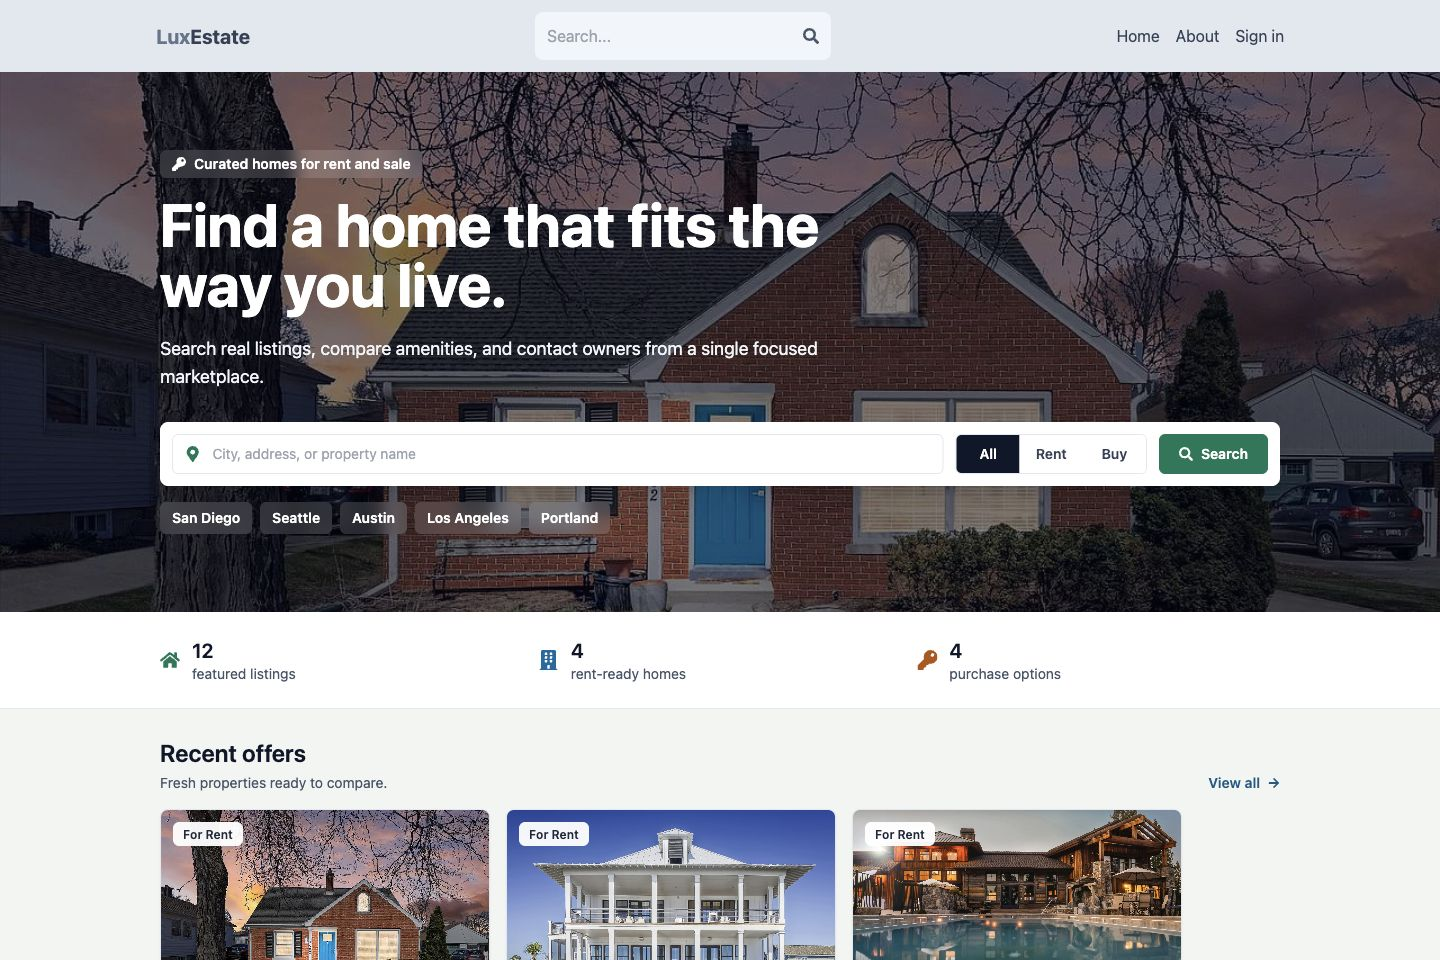
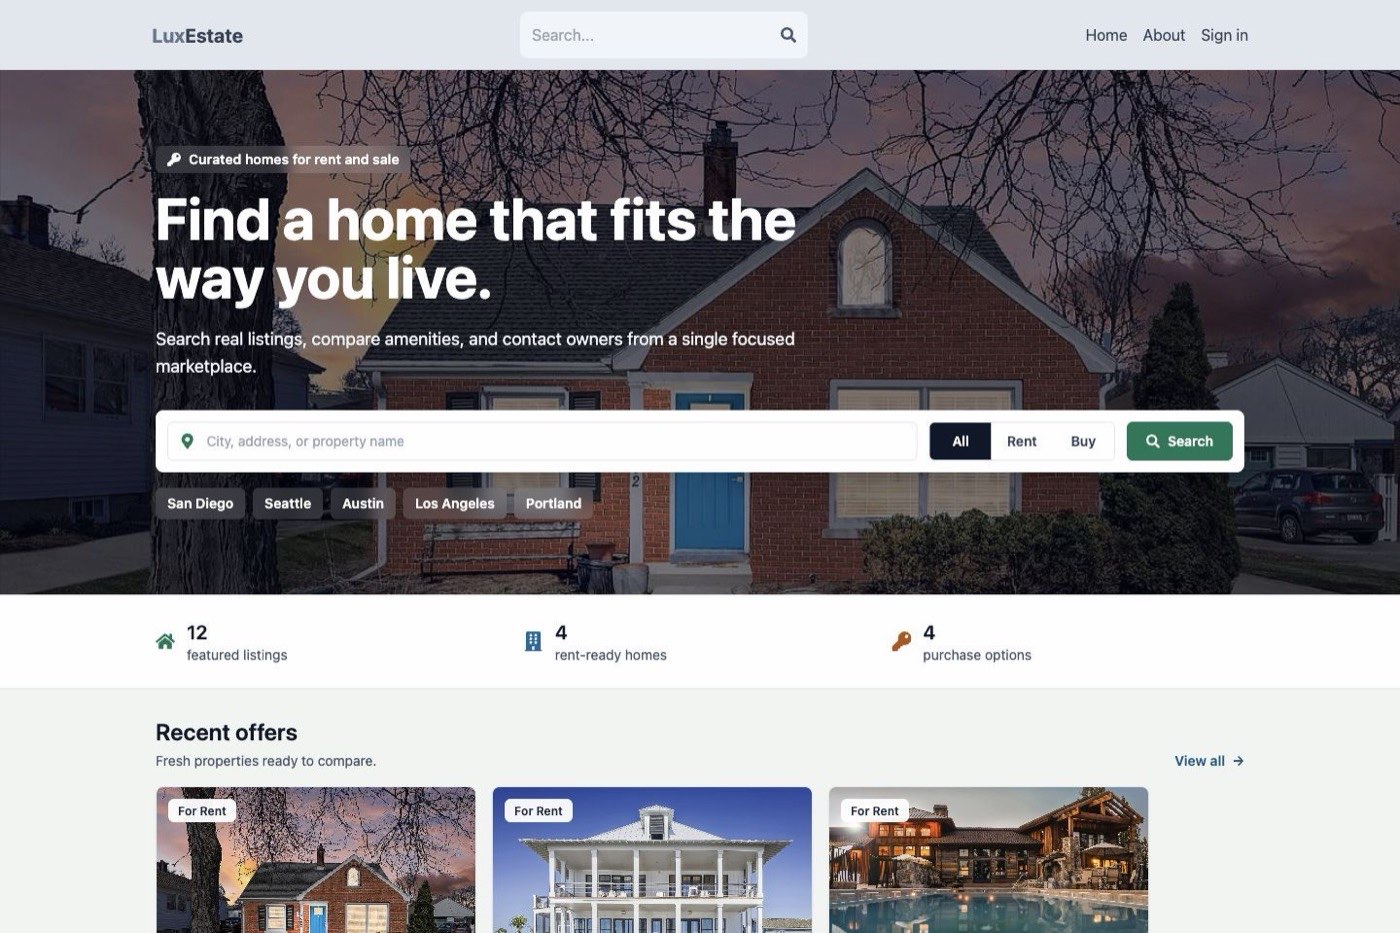
feat(ui): optimize portfolio assets and deepen Command Deck polish
Compress project screenshots, hybridize the vinyl stage with the gramophone artwork, restyle portfolio cards for the dark theme, and add a fixed mobile mini-player dock.

diff --git a/src/components/scene/turntable/TurntableScene.tsx b/src/components/scene/turntable/TurntableScene.tsx
@@ -1,4 +1,4 @@
-import { ContactShadows } from '@react-three/drei';
+import { useTexture } from '@react-three/drei';
 import { useFrame } from '@react-three/fiber';
 import { useEffect, useRef } from 'react';
 import * as THREE from 'three';
@@ -12,6 +12,19 @@ export type TurntableSceneProps = {
 };
 
 const ROTATION_SPEED = (33.333 * Math.PI * 2) / 60;
+const GRAMOPHONE_TEXTURE = '/images/gramophone.png';
+
+function GramophoneBackdrop() {
+  const texture = useTexture(GRAMOPHONE_TEXTURE);
+  texture.colorSpace = THREE.SRGBColorSpace;
+
+  return (
+    <mesh position={[0.02, 0.72, -0.02]}>
+      <planeGeometry args={[2.35, 2.35]} />
+      <meshBasicMaterial alphaTest={0.04} map={texture} toneMapped={false} transparent />
+    </mesh>
+  );
+}
 
 function VinylDisc({
   accentColor,
@@ -32,17 +45,13 @@ function VinylDisc({
   });
 
   return (
-    <group position={[0, 0.43, 0]} ref={discRef}>
-      <mesh castShadow receiveShadow rotation={[-Math.PI / 2, 0, 0]}>
-        <cylinderGeometry args={[0.96, 0.96, 0.07, 64]} />
-        <meshStandardMaterial color="#1d1d1d" metalness={0.42} roughness={0.34} />
-      </mesh>
-      <mesh castShadow rotation={[-Math.PI / 2, 0, 0]} position={[0, 0.038, 0]}>
-        <cylinderGeometry args={[0.88, 0.88, 0.02, 64]} />
+    <group position={[0.04, 0.34, 0.18]} ref={discRef} rotation={[-Math.PI / 2, 0, -0.07]}>
+      <mesh castShadow rotation={[Math.PI / 2, 0, 0]}>
+        <cylinderGeometry args={[0.42, 0.42, 0.018, 64]} />
         <meshStandardMaterial color="#101010" metalness={0.58} roughness={0.22} />
       </mesh>
-      <mesh rotation={[-Math.PI / 2, 0, 0]} position={[0, 0.052, 0]}>
-        <circleGeometry args={[0.24, 32]} />
+      <mesh position={[0, 0.012, 0]} rotation={[Math.PI / 2, 0, 0]}>
+        <circleGeometry args={[0.11, 32]} />
         <meshStandardMaterial map={labelTexture} metalness={0.15} roughness={0.62} />
       </mesh>
     </group>
@@ -51,10 +60,10 @@ function VinylDisc({
 
 function ToneArm({ isPlaying }: { readonly isPlaying: boolean }) {
   const armRef = useRef<THREE.Group>(null);
-  const targetRotation = useRef(isPlaying ? -0.18 : -0.92);
+  const targetRotation = useRef(isPlaying ? -0.22 : -0.88);
 
   useEffect(() => {
-    targetRotation.current = isPlaying ? -0.18 : -0.92;
+    targetRotation.current = isPlaying ? -0.22 : -0.88;
   }, [isPlaying]);
 
   useFrame((_, delta) => {
@@ -62,46 +71,22 @@ function ToneArm({ isPlaying }: { readonly isPlaying: boolean }) {
       return;
     }
 
-    armRef.current.rotation.y = THREE.MathUtils.lerp(
-      armRef.current.rotation.y,
+    armRef.current.rotation.z = THREE.MathUtils.lerp(
+      armRef.current.rotation.z,
       targetRotation.current,
       1 - Math.exp(-3.6 * delta),
     );
   });
 
   return (
-    <group position={[0.98, 0.5, 0]} ref={armRef} rotation={[0, -0.92, 0]}>
+    <group position={[0.72, 0.52, 0.22]} ref={armRef} rotation={[0, -0.18, -0.88]}>
       <mesh castShadow>
-        <cylinderGeometry args={[0.055, 0.055, 0.09, 20]} />
+        <cylinderGeometry args={[0.035, 0.035, 0.06, 16]} />
         <meshStandardMaterial color="#8f8f8f" metalness={0.88} roughness={0.18} />
       </mesh>
-      <mesh castShadow position={[0.34, 0.035, 0]} rotation={[0, 0, Math.PI / 2]}>
-        <cylinderGeometry args={[0.024, 0.024, 0.72, 12]} />
+      <mesh castShadow position={[0.22, 0.02, 0]} rotation={[0, 0, Math.PI / 2]}>
+        <cylinderGeometry args={[0.016, 0.016, 0.46, 12]} />
         <meshStandardMaterial color="#d2d2d2" metalness={0.92} roughness={0.12} />
-      </mesh>
-      <mesh castShadow position={[0.69, 0.015, 0]}>
-        <boxGeometry args={[0.13, 0.06, 0.09]} />
-        <meshStandardMaterial color="#242424" metalness={0.72} roughness={0.28} />
-      </mesh>
-    </group>
-  );
-}
-
-function GramophoneHorn() {
-  return (
-    <group position={[-0.62, 0.98, 0.12]} rotation={[0.28, 0.45, -0.18]}>
-      <mesh castShadow>
-        <coneGeometry args={[0.58, 0.92, 36, 1, true]} />
-        <meshStandardMaterial
-          color="#c7a06a"
-          metalness={0.68}
-          roughness={0.32}
-          side={THREE.DoubleSide}
-        />
-      </mesh>
-      <mesh position={[0, -0.46, 0]}>
-        <cylinderGeometry args={[0.05, 0.05, 0.18, 16]} />
-        <meshStandardMaterial color="#9a784f" metalness={0.55} roughness={0.42} />
       </mesh>
     </group>
   );
@@ -122,41 +107,30 @@ export function TurntableScene({
 
     stageRef.current.rotation.x = THREE.MathUtils.lerp(
       stageRef.current.rotation.x,
-      hoverTilt * 0.08,
+      hoverTilt * 0.06,
       1 - Math.exp(-5 * delta),
     );
     stageRef.current.rotation.y = THREE.MathUtils.lerp(
       stageRef.current.rotation.y,
-      hoverTilt * -0.12,
+      hoverTilt * -0.1,
       1 - Math.exp(-5 * delta),
     );
   });
 
   return (
     <group ref={stageRef}>
-      <ambientLight intensity={0.62} />
-      <directionalLight castShadow intensity={1.05} position={[3.2, 5.4, 2.4]} />
-      <directionalLight color="#c9dfd9" intensity={0.34} position={[-2.4, 2.6, -1.2]} />
+      <ambientLight intensity={0.78} />
+      <directionalLight intensity={0.95} position={[2.4, 4.2, 3.2]} />
+      <directionalLight color="#ffd2d6" intensity={0.28} position={[-2.2, 2.4, 1.4]} />
+      <pointLight color={accentColor} intensity={0.35} position={[0.2, 0.8, 1.2]} />
 
-      <mesh castShadow position={[0, 0.18, 0]} receiveShadow>
-        <boxGeometry args={[2.45, 0.36, 1.55]} />
-        <meshStandardMaterial color="#76563f" metalness={0.12} roughness={0.78} />
-      </mesh>
-
-      <mesh castShadow position={[0, 0.39, 0]}>
-        <cylinderGeometry args={[1.02, 1.02, 0.05, 48]} />
-        <meshStandardMaterial color="#2f2f2f" metalness={0.35} roughness={0.48} />
-      </mesh>
-
+      <GramophoneBackdrop />
       <VinylDisc
         accentColor={accentColor}
         activeLinkLabel={activeLinkLabel}
         isPlaying={isPlaying}
       />
       <ToneArm isPlaying={isPlaying} />
-      <GramophoneHorn />
-
-      <ContactShadows blur={2.4} far={4.2} opacity={0.34} position={[0, 0.01, 0]} scale={4.2} />
     </group>
   );
 }

diff --git a/src/styles.css b/src/styles.css
@@ -1855,7 +1855,7 @@ button:focus-visible {
     padding:
       max(0.72rem, env(safe-area-inset-top))
       0.88rem
-      max(1.75rem, calc(env(safe-area-inset-bottom) + 1.16rem));
+      max(4.8rem, calc(env(safe-area-inset-bottom) + 4.2rem));
     overflow: hidden;
   }
 
@@ -1875,7 +1875,39 @@ button:focus-visible {
   }
 
   .deck-player-slot {
+    position: fixed;
+    right: 0.88rem;
+    bottom: max(2.35rem, calc(env(safe-area-inset-bottom) + 1.85rem));
+    left: 0.88rem;
+    z-index: 6;
+    width: auto;
+    margin-top: 0;
+  }
+
+  .deck-player-slot .player-panel {
+    display: flex;
+    width: 100%;
+  }
+
+  .deck-player-slot .player-card {
+    width: 100%;
+    padding: 0.42rem 0.48rem;
+    border-radius: 0.65rem;
+    background:
+      linear-gradient(180deg, rgb(255 255 255 / 8%), rgb(255 255 255 / 4%)),
+      rgb(12 12 13 / 92%);
+    box-shadow:
+      inset 0 1px 0 rgb(255 255 255 / 8%),
+      0 0.85rem 2rem rgb(0 0 0 / 42%);
+  }
+
+  .deck-player-slot .gramophone-frame,
+  .deck-player-slot .vinyl-stage-3d {
     display: none;
+  }
+
+  .deck-player-slot .mini-player {
+    width: 100%;
   }
 
   .command-stage {
@@ -1995,7 +2027,8 @@ button:focus-visible {
   }
 
   .player-panel {
-    display: none;
+    justify-self: stretch;
+    width: 100%;
   }
 
   .primary-nav {
@@ -2641,7 +2674,7 @@ body[data-page="projects"] .page-shell {
 
 .portfolio-list {
   display: grid;
-  gap: clamp(1rem, 2.4vw, 1.6rem);
+  gap: clamp(1.2rem, 2.6vw, 1.8rem);
 }
 
 .portfolio-project {
@@ -2650,16 +2683,36 @@ body[data-page="projects"] .page-shell {
   gap: clamp(1rem, 3vw, 2rem);
   align-items: center;
   min-width: 0;
-  padding: clamp(1rem, 2.4vw, 1.45rem) 0;
-  border-top: 1px solid var(--line-strong);
+  padding: clamp(1.15rem, 2.4vw, 1.65rem);
+  border: 1px solid rgb(255 255 255 / 10%);
+  border-radius: 0.85rem;
+  background:
+    linear-gradient(135deg, rgb(255 255 255 / 5%), transparent 58%),
+    linear-gradient(180deg, rgb(18 19 20 / 92%), rgb(10 11 12 / 88%));
+  box-shadow:
+    inset 0 1px 0 rgb(255 255 255 / 6%),
+    0 1.2rem 2.8rem rgb(0 0 0 / 28%);
   opacity: 0;
   transform: translateY(0.55rem);
   animation: project-card-in 420ms calc(var(--project-index, 0) * 80ms + 120ms)
     cubic-bezier(0.22, 1, 0.36, 1) both;
+  transition:
+    border-color 220ms ease,
+    box-shadow 220ms ease,
+    transform 220ms cubic-bezier(0.22, 1, 0.36, 1);
+}
+
+.portfolio-project:hover {
+  border-color: rgb(94 234 212 / 22%);
+  box-shadow:
+    inset 0 1px 0 rgb(255 255 255 / 8%),
+    0 0 1.4rem rgb(94 234 212 / 10%),
+    0 1.4rem 3rem rgb(0 0 0 / 34%);
+  transform: translateY(-0.12rem);
 }
 
 .portfolio-project:last-child {
-  border-bottom: 1px solid var(--line);
+  border-bottom: 1px solid rgb(255 255 255 / 10%);
 }
 
 .portfolio-project-copy {
@@ -2669,7 +2722,11 @@ body[data-page="projects"] .page-shell {
 .portfolio-project .project-category {
   display: inline-flex;
   margin: 0 0 0.64rem;
-  color: var(--accent-deep);
+  padding: 0.12rem 0.42rem;
+  border: 1px solid rgb(255 77 90 / 28%);
+  border-radius: 999px;
+  background: rgb(255 77 90 / 8%);
+  color: #ffb3ba;
   font-size: 0.68rem;
   font-weight: 850;
   text-transform: uppercase;
@@ -2726,6 +2783,7 @@ body[data-page="projects"] .page-shell {
   height: 0.38rem;
   border-radius: 50%;
   background: var(--accent-cool);
+  box-shadow: 0 0 0.45rem rgb(94 234 212 / 42%);
   content: "";
 }
 
@@ -2817,17 +2875,21 @@ body[data-page="projects"] .page-shell {
   display: block;
   min-width: 0;
   overflow: hidden;
-  border: 1px solid var(--line-strong);
-  border-radius: 0.5rem;
-  background: var(--surface);
-  box-shadow: var(--shadow-soft);
+  border: 1px solid rgb(255 255 255 / 12%);
+  border-radius: 0.65rem;
+  background: rgb(8 9 9 / 88%);
+  box-shadow: 0 1rem 2.2rem rgb(0 0 0 / 32%);
   transition:
     box-shadow 220ms cubic-bezier(0.22, 1, 0.36, 1),
-    transform 220ms cubic-bezier(0.22, 1, 0.36, 1);
+    transform 220ms cubic-bezier(0.22, 1, 0.36, 1),
+    border-color 220ms ease;
 }
 
 .portfolio-screen:hover {
-  box-shadow: 0 1.35rem 2.8rem rgb(23 24 24 / 16%);
+  border-color: rgb(94 234 212 / 24%);
+  box-shadow:
+    0 0 1rem rgb(94 234 212 / 12%),
+    0 1.35rem 2.8rem rgb(0 0 0 / 38%);
   transform: translateY(-0.22rem);
 }
 

diff --git a/src/components/ProjectsPage.tsx b/src/components/ProjectsPage.tsx
@@ -29,7 +29,12 @@ function ClassicProjectScreens({ project }: { readonly project: ProjectShowcaseI
         target={project.external ? '_blank' : undefined}
       >
         <span aria-hidden="true">Web</span>
-        <img alt={project.screenshots.web.alt} src={project.screenshots.web.src} />
+        <img
+          alt={project.screenshots.web.alt}
+          decoding="async"
+          loading="lazy"
+          src={project.screenshots.web.src}
+        />
       </a>
       <a
         aria-label={`${project.name} mobile screenshot opens project`}
@@ -39,7 +44,12 @@ function ClassicProjectScreens({ project }: { readonly project: ProjectShowcaseI
         target={project.external ? '_blank' : undefined}
       >
         <span aria-hidden="true">Mobile</span>
-        <img alt={project.screenshots.mobile.alt} src={project.screenshots.mobile.src} />
+        <img
+          alt={project.screenshots.mobile.alt}
+          decoding="async"
+          loading="lazy"
+          src={project.screenshots.mobile.src}
+        />
       </a>
     </div>
   );

diff --git a/src/components/scene/VinylStageCanvas.tsx b/src/components/scene/VinylStageCanvas.tsx
@@ -37,7 +37,7 @@ export function VinylStageCanvas({
       ref={ref}
     >
       <EmbeddedSceneCanvas
-        camera={{ fov: 36, position: [0, 1.55, 3.35] }}
+        camera={{ fov: 34, position: [0, 0.92, 2.75] }}
         isActive={isActive}
         quality={quality}
       >
